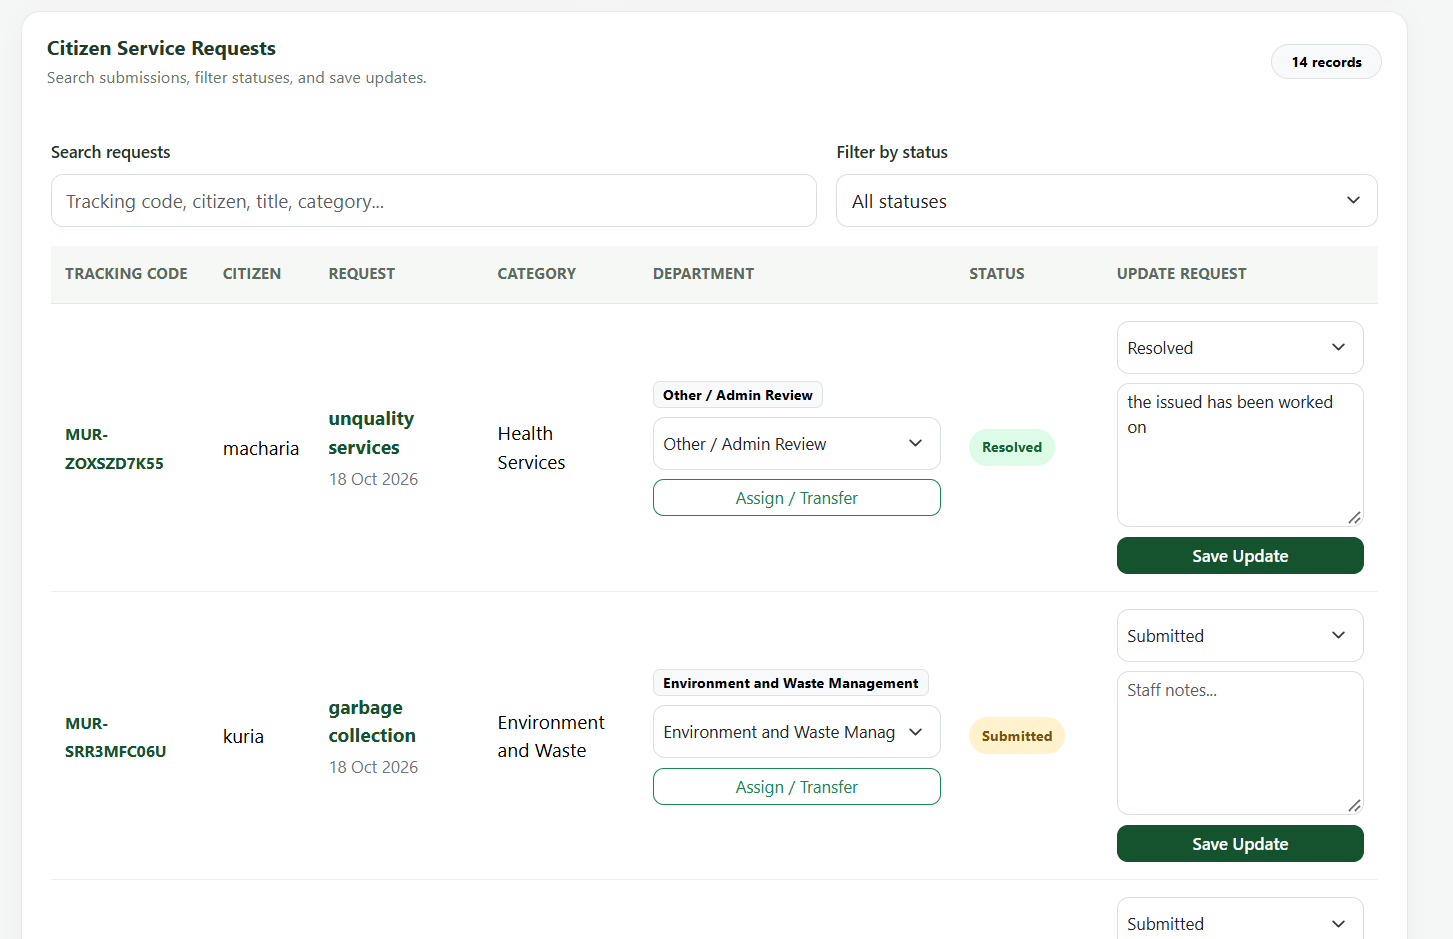
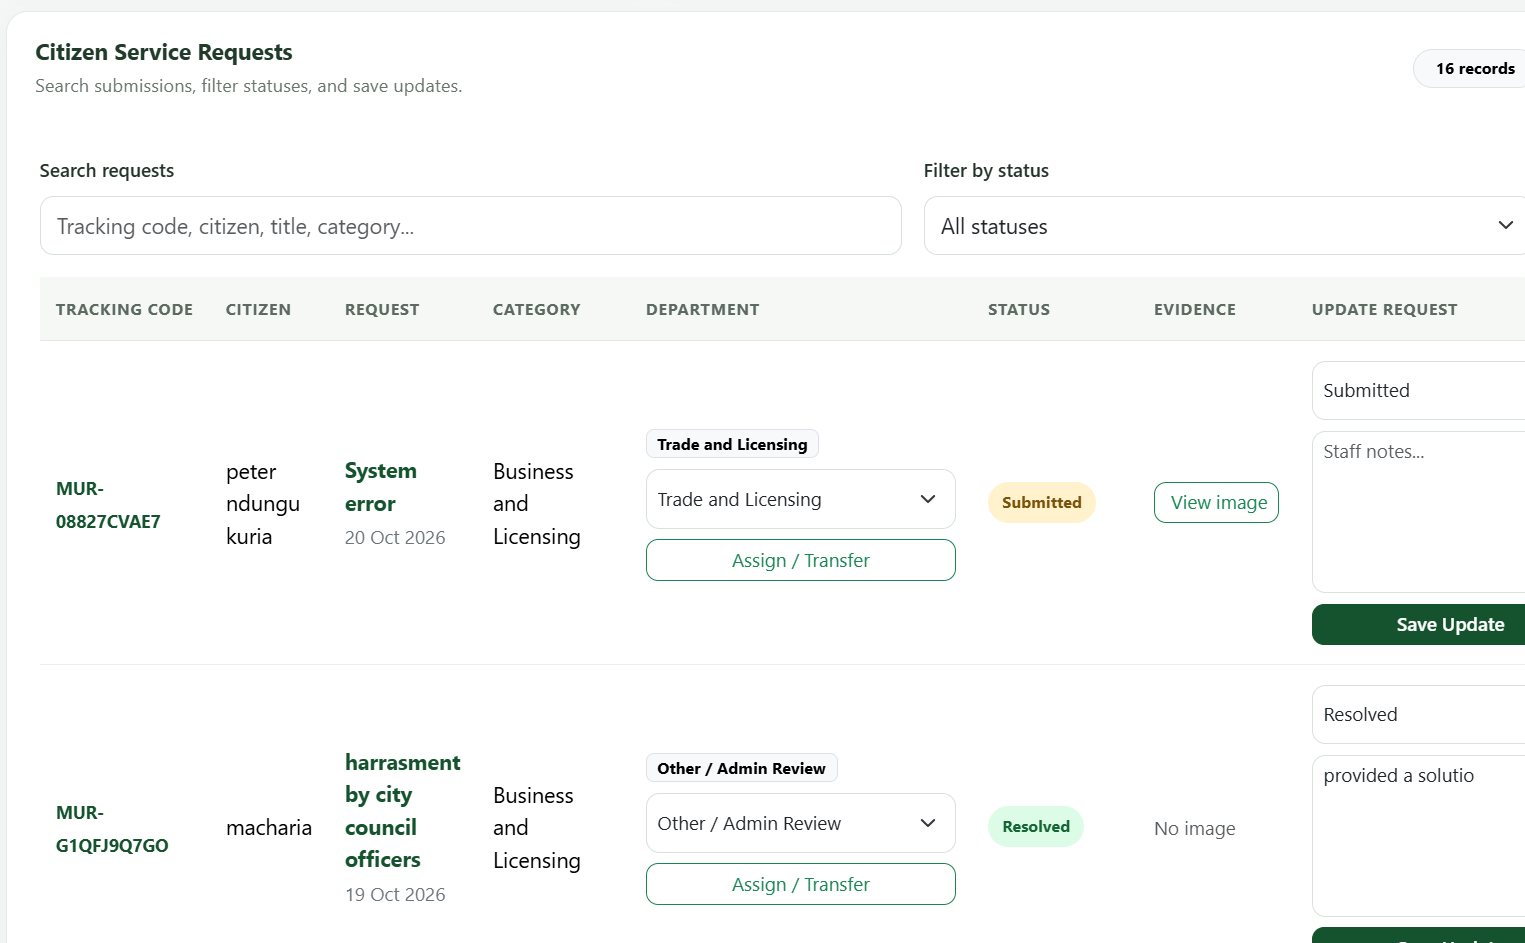
admin update

diff --git a/templates/admin/dashboard.html b/templates/admin/dashboard.html
@@ -162,6 +162,11 @@
         background: #fee2e2;
     }
 
+    .admin-evidence-link {
+        display: inline-block;
+        white-space: nowrap;
+    }
+
     .admin-empty {
         padding: 3rem 1rem;
         text-align: center;
@@ -192,7 +197,6 @@
 </style>
 
 <div class="py-3 py-md-4">
-
 
     <!-- Page heading -->
     <div class="d-flex flex-column flex-sm-row
@@ -246,7 +250,6 @@
             </div>
         </div>
     </div>
-
 
     <!-- Summary cards -->
     <section aria-label="Request statistics">
@@ -412,6 +415,7 @@
             <div class="table-responsive">
                 <table class="table table-hover admin-table align-middle"
                        id="requestsTable">
+
                     <thead>
                         <tr>
                             <th scope="col">Tracking Code</th>
@@ -420,6 +424,7 @@
                             <th scope="col">Category</th>
                             <th scope="col">Department</th>
                             <th scope="col">Status</th>
+                            <th scope="col">Evidence</th>
                             <th scope="col" style="min-width: 230px;">
                                 Update Request
                             </th>
@@ -502,6 +507,7 @@
                                 {% endif %}
                             </td>
 
+                            <!-- Status column -->
                             <td>
                                 {% if item.status == 'Resolved' %}
                                     <span class="admin-status admin-status-resolved">
@@ -526,6 +532,25 @@
                                 {% endif %}
                             </td>
 
+                            <!-- Evidence image column -->
+                            <td>
+                                {% if item.image_url %}
+                                    <a href="{{ item.image_url }}"
+                                       target="_blank"
+                                       rel="noopener noreferrer"
+                                       class="btn btn-outline-success btn-sm admin-evidence-link">
+                                        <i class="bi bi-image me-1"
+                                           aria-hidden="true"></i>
+                                        View image
+                                    </a>
+                                {% else %}
+                                    <span class="text-muted small">
+                                        No image
+                                    </span>
+                                {% endif %}
+                            </td>
+
+                            <!-- Update request column -->
                             <td>
                                 <form method="POST"
                                       action="{{ url_for('update_request', request_id=item.id) }}">
@@ -573,12 +598,13 @@
                         {% endfor %}
 
                         <tr id="noMatches" class="d-none">
-                            <td colspan="7"
+                            <td colspan="8"
                                 class="text-center text-secondary py-4">
                                 No requests match your search or filter.
                             </td>
                         </tr>
                     </tbody>
+
                 </table>
             </div>
 
@@ -626,8 +652,11 @@ document.addEventListener("DOMContentLoaded", function () {
                     datasets: [{
                         data: statusCounts,
                         backgroundColor: [
-                            "#d99b18", "#0891b2", "#2563eb",
-                            "#21834b", "#dc2626"
+                            "#d99b18",
+                            "#0891b2",
+                            "#2563eb",
+                            "#21834b",
+                            "#dc2626"
                         ],
                         borderWidth: 3,
                         borderColor: "#ffffff",
